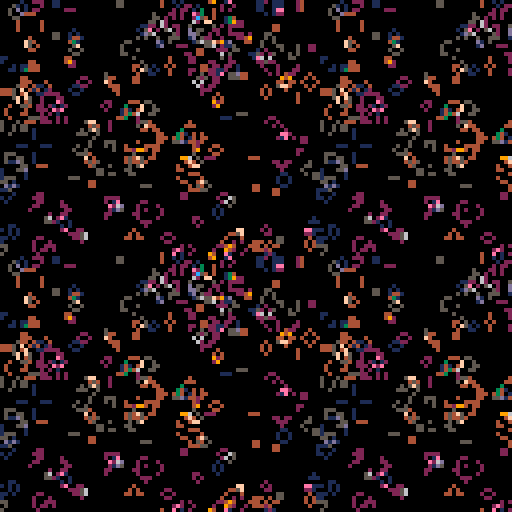
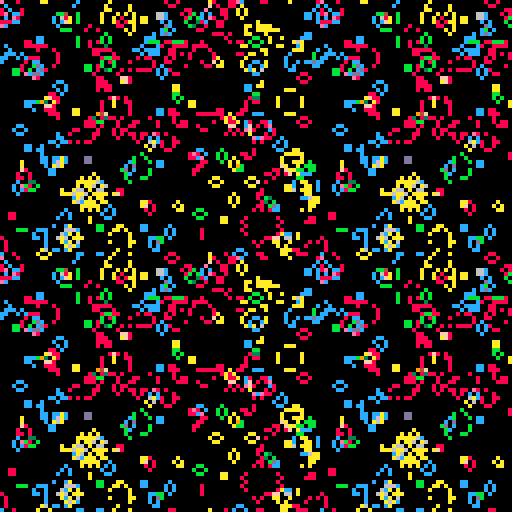
Update README
Update screenshot (as palette changed).

Described how the music is generated and added Paul to the credits.

diff --git a/README.md b/README.md
@@ -12,8 +12,7 @@ Next to that, there is a background reaper process for each layer.
 It randomly removes cells that have been static for too long.
 So if you do not do anything, your garden will eventually die out.
 
-However, if you wish, you can every so often initiate a revive action.
-The revive action will scan the entire grid.
+If you wish, you can every so often initiate a revive action, which will scan the entire grid.
 Anywhere where there are alive cells in two neighbouring layers, new cells are sprouted in the other two layers.
 Often these new cells die immediately of starvation, but sometimes they initiate a flurry of activity.
 
@@ -21,11 +20,16 @@ You can use the up and down keys to speed-up and slow-down time.
 You can use the left and right keys to change the view.
 There's even a fancy plot that shows how well your garden is doing.
 
+The music adapts dynamically to the garden.
+The building blocks are sixteen different one-channel sound tracks that can be freely mixed to create 624 unique 4-channel patterns.
+
 Credits
 -------
+The adaptive music has been composed by my brother Paul. Thanks again!
 
 In order to maximise performance, the Game of Life rules are implemented by performing bitwise operations.
 This is heavily inspired by [rilden's Game of Life](https://www.lexaloffle.com/bbs/?pid=94115).
+
 The game also uses [Felice's 32-bit integer to string conversion code](https://www.lexaloffle.com/bbs/?pid=22809).
 
 [PICO-8]: https://www.lexaloffle.com/pico-8.php
